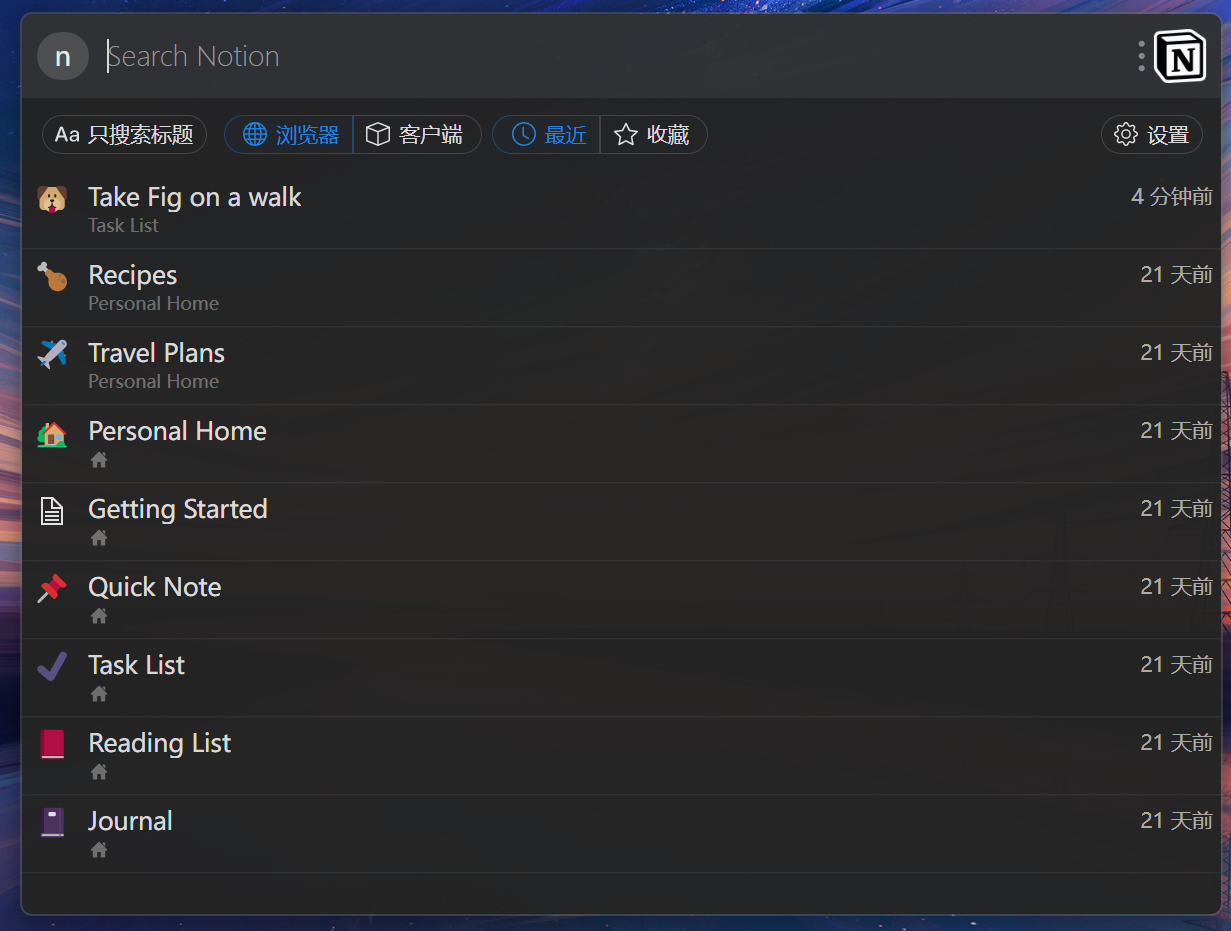
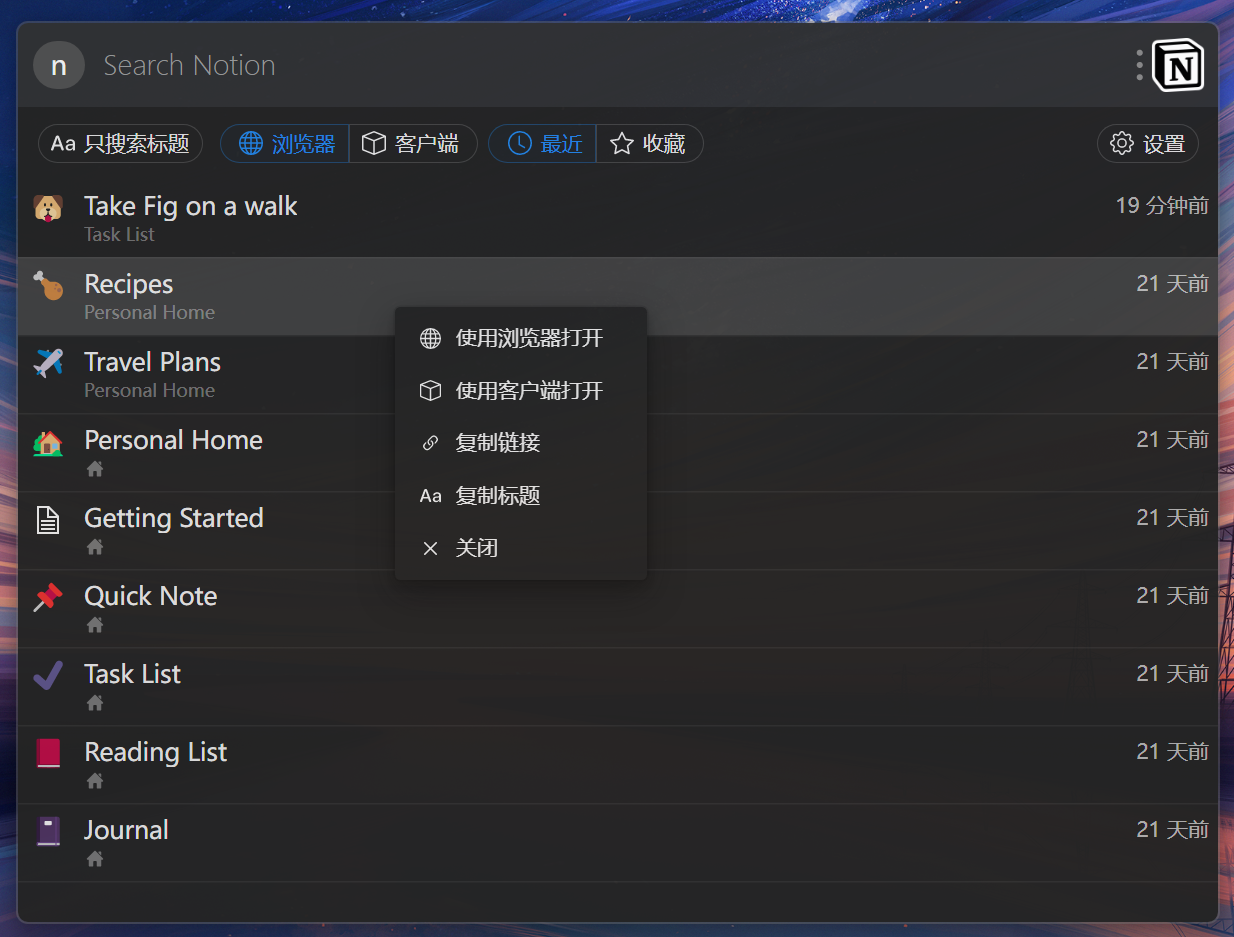
docs: update preview img & release info

Changed region(s): [[0.0, 0.0, 1.0, 1.0], [0.3396, 0.4049, 0.4939, 0.5918]]

diff --git a/RELEASE.md b/RELEASE.md
@@ -1,0 +1,17 @@
+## 功能预览
+
+- 启动时显示最近访问的页面 / 收藏的页面
+- 接近官网的搜索体验
+- 使用桌面客户端或浏览器打开页面
+- 完整路径和图标显示
+- 本地图标缓存
+
+## 选项设置页面
+
+- 默认打开方式：浏览器 / 客户端
+- 初始视图：最近 / 收藏 / 无
+- 只搜索标题
+
+## Road Map
+
+- 集成 Notion Enhancer 浏览器插件
